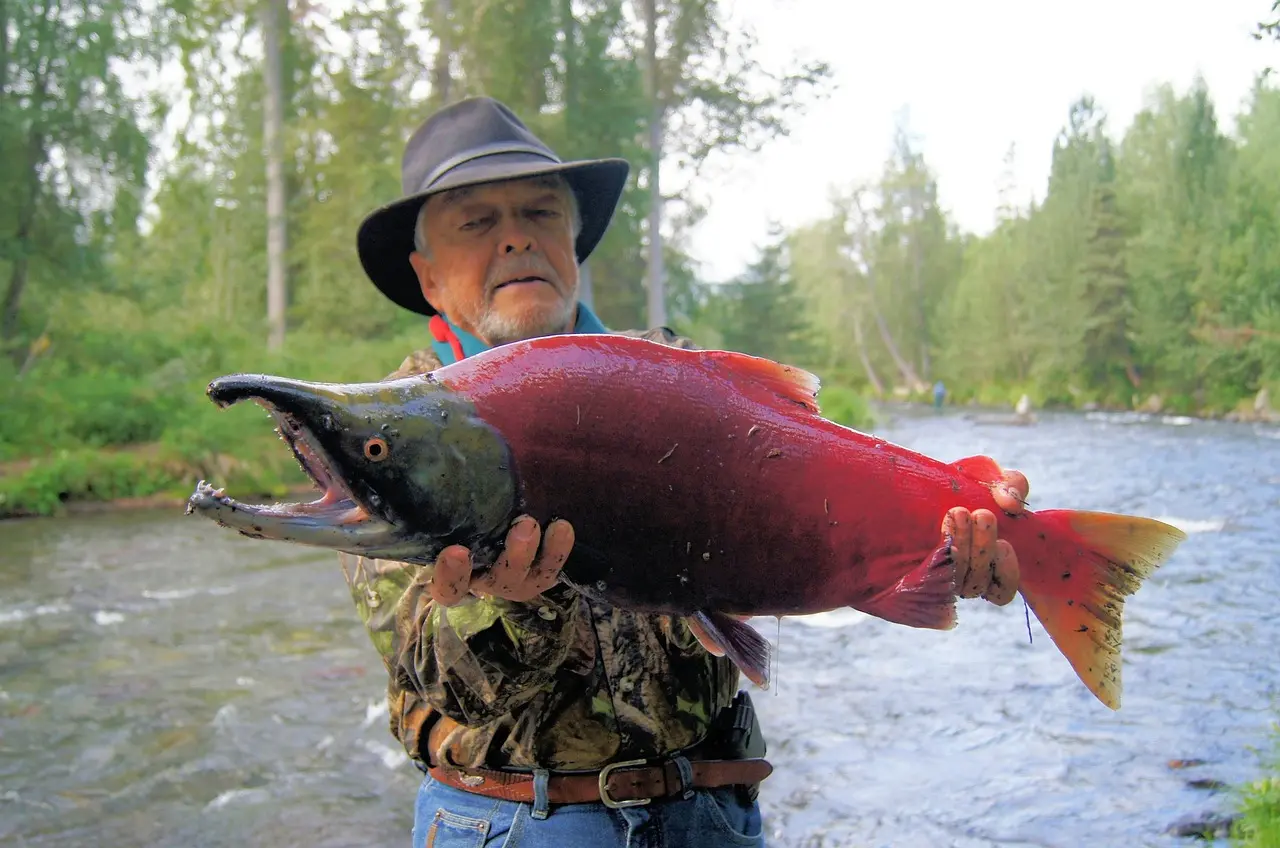
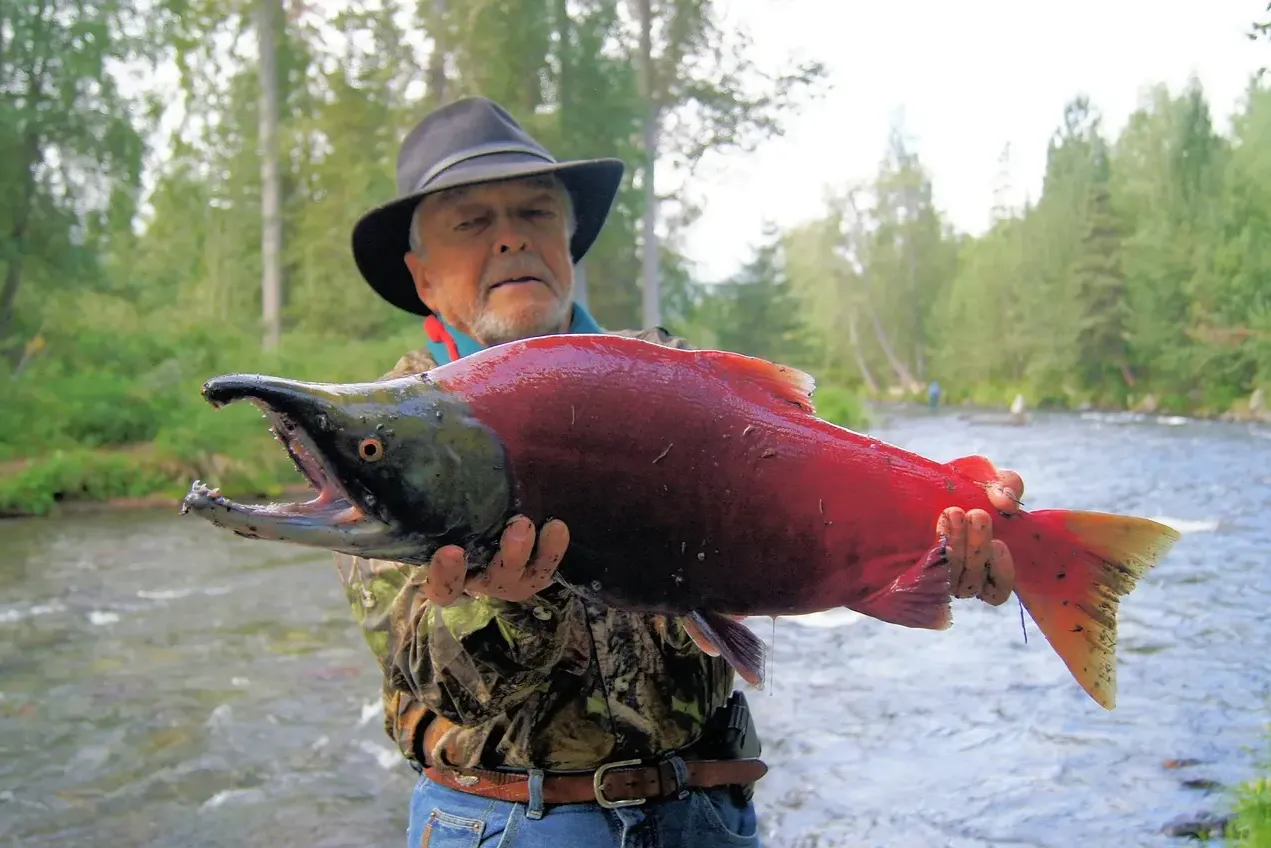
content refresh is finished

diff --git a/index.html b/index.html
@@ -21,6 +21,7 @@
     <link rel="stylesheet" href="css/reset.css">
     <link rel="stylesheet" href="css/styles.css">
     <script src="js/main.js" defer></script>
+   
     <!-- Google tag (gtag.js) -->
     <script async src="https://www.googletagmanager.com/gtag/js?id=G-R5ESK2FHNW"></script>
     <script>
@@ -30,6 +31,7 @@
 
         gtag('config', 'G-R5ESK2FHNW');
     </script>
+      
 </head>
 
 <body>
@@ -52,7 +54,7 @@
             </div>
             <nav>
                 <ul class="menu">
-                    <li><a href="#accomodations">Accomodations</a></li>
+                    <li><a href="#accomodations">Accommodations</a></li>
                     <li><a href="#excursions">Excursions</a></li>
                     <!-- <li><a href="#dining">Dining</a></li> -->
                 </ul>
@@ -127,7 +129,7 @@
 
                     </section>
                     <a href="https://whitehorsewinterwonderland.netlify.app/#accomodations"
-                        class="leaderboard-banner"><img src="img/leaderboard-banner.jpg" alt="Northern Lights Ad"></a>
+                        class="leaderboard-banner"><img src="img/leaderboard-banner.webp" alt="Northern Lights Ad"></a>
                 </div>
 
             </div>
@@ -165,14 +167,14 @@
                         </div>
                     </article>
                     <article>
-                        <img src="img/reindeer-5635891_1280.jpg" alt="Elk standing in the winter Wonderland">
+                        <img src="img/reindeer.webp" alt="Elk standing in the winter Wonderland">
                         <div class="events">
                             <p>SEPT. 22, 2024</p>
                             <h3>Boogie-woogie bugle Reindeer</h3>
                         </div>
                     </article>
                     <article>
-                        <img src="img/winter-2495882_1280.jpg"
+                        <img src="img/skating.webp"
                             alt="pweson skating across a lake in a winter wonderland">
                         <div class="events">
                             <p>SEPT 23, 2024</p>
@@ -180,14 +182,14 @@
                         </div>
                     </article>
                     <article>
-                        <img src="img/microphone-6046111_1280.jpg" alt="Empty stage with a microphone on it">
+                        <img src="img/microphone.webp" alt="Empty stage with a microphone on it">
                         <div class="events">
                             <p>SEPT 23, 2024</p>
                             <h3>Comedy - Brittany Lyseng Live</h3>
                         </div>
                     </article>
                     <article>
-                        <img src="img/zumba-4333580_1280.jpg"
+                        <img src="img/zumba.webp"
                             alt="Multiple people outside participating in a zumba class">
                         <div class="events">
                             <p>SEPT 26, 2024</p>
@@ -210,9 +212,9 @@
         <section class="get-started" id="accomodations">
             <div class="inner-container">
                 <div class="accomodations">
-                    <h2>Accomodations in Whitehorse</h2>
+                    <h2>Accommodations in Whitehorse</h2>
                     <article>
-                        <img src="img/vermont-3545041_1280.jpg"
+                        <img src="img/airbnb.webp"
                             alt="A bedframe filled with flowers outside of Downtown Whitehorse">
                         <div class="inner-accomodations accomo-flex">
                             <h3>Hidden Valley Bed & Breakfast</h3>
@@ -226,7 +228,7 @@
 
 
                             <p>
-                                Come and recieve one of the best complimentary breakfasts available in Whitehorse.
+                                Come and receive one of the best complimentary breakfasts available in Whitehorse.
                                 Whether
                                 it's
                                 a warm hot chocolate for the cold winter mornings or a "Early checkout Breakfast" we
@@ -244,7 +246,7 @@
 
                     </article>
                     <article>
-                        <img src="img/cabin-997781_1280.jpg" alt="Snowy cabin in a Winter Wonderland">
+                        <img src="img/cabin.webp" alt="Snowy cabin in a Winter Wonderland">
                         <div class="inner-accomodations accomo-flex">
                             <h3>Northern Lights Resort & Spa</h3>
                             <p>
@@ -280,7 +282,7 @@
 
                     </article>
                     <article>
-                        <img src="img/log-cabin-4030556_1280.jpg" alt="Inside a log cabin looking at a fireplace">
+                        <img src="img/log-cabin.webp" alt="Inside a log cabin looking at a fireplace">
                         <div class="inner-accomodations accomo-flex">
                             <h3>Yukon Black Spruce</h3>
                             <p>"Black Spruce began in 2019 with the goal of creating a sustainable and beautiful place
@@ -305,7 +307,7 @@
                                 completely black! This allows for the warmest cabins available.
                                 You will never be cold from Whitehorse winters as these cabins are able to hold so much
                                 heat
-                                from the beatiful Whitehorse sun.
+                                from the beautiful Whitehorse sun.
                             </p>
                             <p>
                                 Come and enjoy these beatiful cabins situated in the heart of Whitehorse
@@ -327,38 +329,38 @@
                 <div class="start-flex">
                     <h2 class="excursions">Excursions in Whitehorse</h2>
                     <section>
-                        <img src="img/snowy-owl-3309209_1280.jpg" alt="">
+                        <img src="img/snowy-owl.webp" alt="">
                         <div class="inner-accomodations">
                             <h3>Wildlife Sanctuary</h3>
-
+                            <p>Experience Yukon animals in their natural winter habitat. With a guided tour you will see Grizzly bears, caribou, arctic foxes and many more animals thriving in the wild winters in Whitehorse. Book your private tour today!  </p>
                             <a href="https://yukonwildlife.ca/?gclid=Cj0KCQjwmvSoBhDOARIsAK6aV7gtcolVakH34vj85HtWqAocgh_lAOfKqRhbs9slG8uesxUhElBHDAIaAtdIEALw_wcB"
                                 target="_blank" class="red-btn" rel="noopener noreferrer"> Book Now</a>
                         </div>
 
                     </section>
                     <section>
-                        <img src="img/sled-3953650_1280.jpg" alt="">
+                        <img src="img/dog-sled-2.webp" alt="Dogs running in Whitehorse in Winter">
                         <div class="inner-accomodations">
 
                             <h3>Dog Sledding</h3>
-
+                            <p>Embark on an exhilarating dog-sled adventure and experience the magic of winter like never before. Picture yourself bundled up in warm, cozy layers as a team of powerful and eager Siberian Huskies  pull you through a pristine winter Wonderland.</p>
                             <a href="https://alayuk.com" class="red-btn" target="_blank" rel="noopener noreferrer"> Book
                                 Now</a>
                         </div>
 
                     </section>
                     <section>
-                        <img src="img/mountains-5734916_1280.jpg" alt="">
+                        <img src="img/helicopter.webp" alt="Helicopter flying over winter mountains">
 
                         <div class="inner-accomodations">
                             <h3>Helicopter Tours</h3>
-
+                            <p>Elevate your travel experience with a thrilling helicopter tour that offers a unique perspective of Whitehorse. As you soar above, you'll be treated to panoramic views of a winter wonderland that are nothing short of awe-inspiring. </p>
                             <a href="https://www.wildernessyukon.com/whitehorse-area-day-trips/heli-tours/"
                                 class="red-btn" target="_blank" rel="noopener noreferrer"> Book Now</a>
                         </div>
                     </section>
                     <section class="last-excursion">
-                        <img src="img/reindeer-2524817_1280.jpg" alt="">
+                        <img src="img/reindeer-2.webp" alt="Reindeer in a winter wonderland">
                         <div class="inner-accomodations">
                             <h3>Caribou Crossing Adventure</h3>
 
@@ -367,7 +369,7 @@
                         </div>
                     </section>
                     <section class="last-excursion">
-                        <img src="img/river-boat-3570260_1280.jpg" alt="">
+                        <img src="img/river-boat.webp" alt="">
                         <div class="inner-accomodations">
                             <h3>S.S. Klondike National Historic Site</h3>
 
@@ -384,7 +386,7 @@
             <div class="inner-container join-us-flex">
                 <form action="#" method="post">
                     <h2>Join Our Winter Wonderland Community</h2>
-                    <p>Sign Up to recieve our weekly newsletter, providing news, updated events, and everything else you
+                    <p>Sign Up to receive our weekly newsletter, providing news, updated events, and everything else you
                         need to know about what is happening in our city. We look forward to seeing you!</p>
                     <div class="form-flex">
                         <div>
@@ -400,7 +402,7 @@
                         or visit us on <a href="https://www.facebook.com/profile.php?id=61552415908300">Facebook!</a>
                     </p>
                 </form>
-                <a href="https://www.yukonquest.com" class="square-banner-ad"><img src="img/square-banner.jpg"
+                <a href="https://www.yukonquest.com" class="square-banner-ad"><img src="img/square-banner.webp"
                         alt="Ad for Yukon Quest dog sled race"></a>
             </div>
 
@@ -414,7 +416,7 @@
                 </a>
                 <div class="footer-ul-flex">
                     <ul>
-                        <li><a href="#accomodations">Accomodations</a></li>
+                        <li><a href="#accomodations">Accommodations</a></li>
                         <li><a href="#excursions">Excursions</a></li>
                         <!-- <li><a href="#">Dining</a></li> -->
                     </ul>
@@ -430,13 +432,17 @@
                 <p>For Educational Purposes Only</p>
                 <p><a href="license.txt"> Licenses</a></p>
                 <p><a href="https://finchkoreatown.anakajfes.ca/#about">Other Destinations</a></p>
-                <p><a href="robots.txt"> Robots</a></p>
-                <p><a href="sitemap.xml"> Sitemap</a></p>
                 <a href="https://www.iubenda.com/privacy-policy/41783307" class="iubenda-white iubenda-noiframe iubenda-embed iubenda-noiframe " title="Privacy Policy ">Privacy Policy</a><script type="text/javascript">(function (w,d) {var loader = function () {var s = d.createElement("script"), tag = d.getElementsByTagName("script")[0]; s.src="https://cdn.iubenda.com/iubenda.js"; tag.parentNode.insertBefore(s,tag);}; if(w.addEventListener){w.addEventListener("load", loader, false);}else if(w.attachEvent){w.attachEvent("onload", loader);}else{w.onload = loader;}})(window, document);</script>
                 <a href="https://www.iubenda.com/privacy-policy/41783307/cookie-policy" class="iubenda-white iubenda-noiframe iubenda-embed iubenda-noiframe " title="Cookie Policy ">Cookie Policy</a><script type="text/javascript">(function (w,d) {var loader = function () {var s = d.createElement("script"), tag = d.getElementsByTagName("script")[0]; s.src="https://cdn.iubenda.com/iubenda.js"; tag.parentNode.insertBefore(s,tag);}; if(w.addEventListener){w.addEventListener("load", loader, false);}else if(w.attachEvent){w.attachEvent("onload", loader);}else{w.onload = loader;}})(window, document);</script>
             </div>
         </div>
     </footer>
+    <div id="cookiePopup" class="hide">
+        <p><strong>Cookie Notice:</strong> We use cookies to offer you a better browsing experience, analyze site traffic, personalize content, and gather information to improve your experience.  
+         Read about how we use cookies and how you can control them by <a href="https://www.iubenda.com/privacy-policy/41783307/cookie-policy">clicking here</a>.</p>
+        <button id="acceptCookie">Close</button>
+    </div> 
+    <script src="js/cookies.js"></script>
 </body>
 
 </html>

diff --git a/js/cookies.js b/js/cookies.js
@@ -1,0 +1,38 @@
+// This is not a Javascript course but I could not build a modern website without JS - please take 
+// the course CPSC 1520 Client-Side Scripting with JavaScript for a solid understanding of what
+// is going on bellow. :) 
+
+let popUp = document.getElementById("cookiePopup");
+//When user clicks the accept button
+document.getElementById("acceptCookie").addEventListener("click", () => {
+  //Create date object
+  let d = new Date();
+  //Increment the current time by 1 minute (cookie will expire after 1 minute)
+  d.setMinutes(2 + d.getMinutes());
+  //Create Cookie withname = myCookieName, value = thisIsMyCookie and expiry time=1 minute
+  document.cookie = "myCookieName=thisIsMyCookie; expires = " + d + ";";
+  //Hide the popup
+  popUp.classList.add("hide");
+  popUp.classList.remove("show");
+});
+//Check if cookie is already present
+const checkCookie = () => {
+  //Read the cookie and split on "="
+  let input = document.cookie.split("=");
+  //Check for our cookie
+  if (input[0] == "myCookieName") {
+    //Hide the popup
+    popUp.classList.add("hide");
+    popUp.classList.remove("show");
+  } else {
+    //Show the popup
+    popUp.classList.add("show");
+    popUp.classList.remove("hide");
+  }
+};
+//Check if cookie exists when page loads
+window.onload = () => {
+  setTimeout(() => {
+    checkCookie();
+  }, 2000);
+};

diff --git a/css/styles.css b/css/styles.css
@@ -357,7 +357,7 @@ ul.menu li:first-of-type {
 }
 
 .mid-banner {
-    background-image: url(../img/banner-2156395_1920.jpg);
+    background-image: url(../img/banner.webp);
     background-size: cover;
     background-attachment: fixed;
     background-position: 50% 0;
@@ -438,6 +438,47 @@ footer ul {
     padding: 3rem 0;
 }
 
+/* -- Code for the Cookie Compliance popover window -- */
+#cookiePopup {
+    background-color: #ffffff;
+    position: absolute;
+    left: 5%;
+    bottom: 0;
+    font-size: 14px;
+    width: 90%;
+    box-shadow: 0 0 2em rgba(5, 0, 31, 0.15);
+    font-family: "Poppins", sans-serif;
+    text-align: justify;
+    line-height: 1.8em;
+    margin: 0 auto;
+    padding: 2em 1.4em;
+    border-radius: 6px;
+    transition: all 0.5s ease-in-out;
+  }
+  #cookiePopup p {
+    text-align: center;
+    margin: 1.4em 0;
+  }
+  #cookiePopup button {
+    background-color: #3f704d;
+    border: none;
+    color: #ffffff;
+    font-size: 1.2em;
+    padding: 1em 1.4em;
+    display: block;
+    position: relative;
+    margin: auto;
+    border-radius: 5px;
+  }
+  #cookiePopup a {
+    color:#3f704d;
+  }
+  .hide {
+    visibility: hidden;
+  }
+  .show {
+    visibility: visible;
+   }
 
 
 
